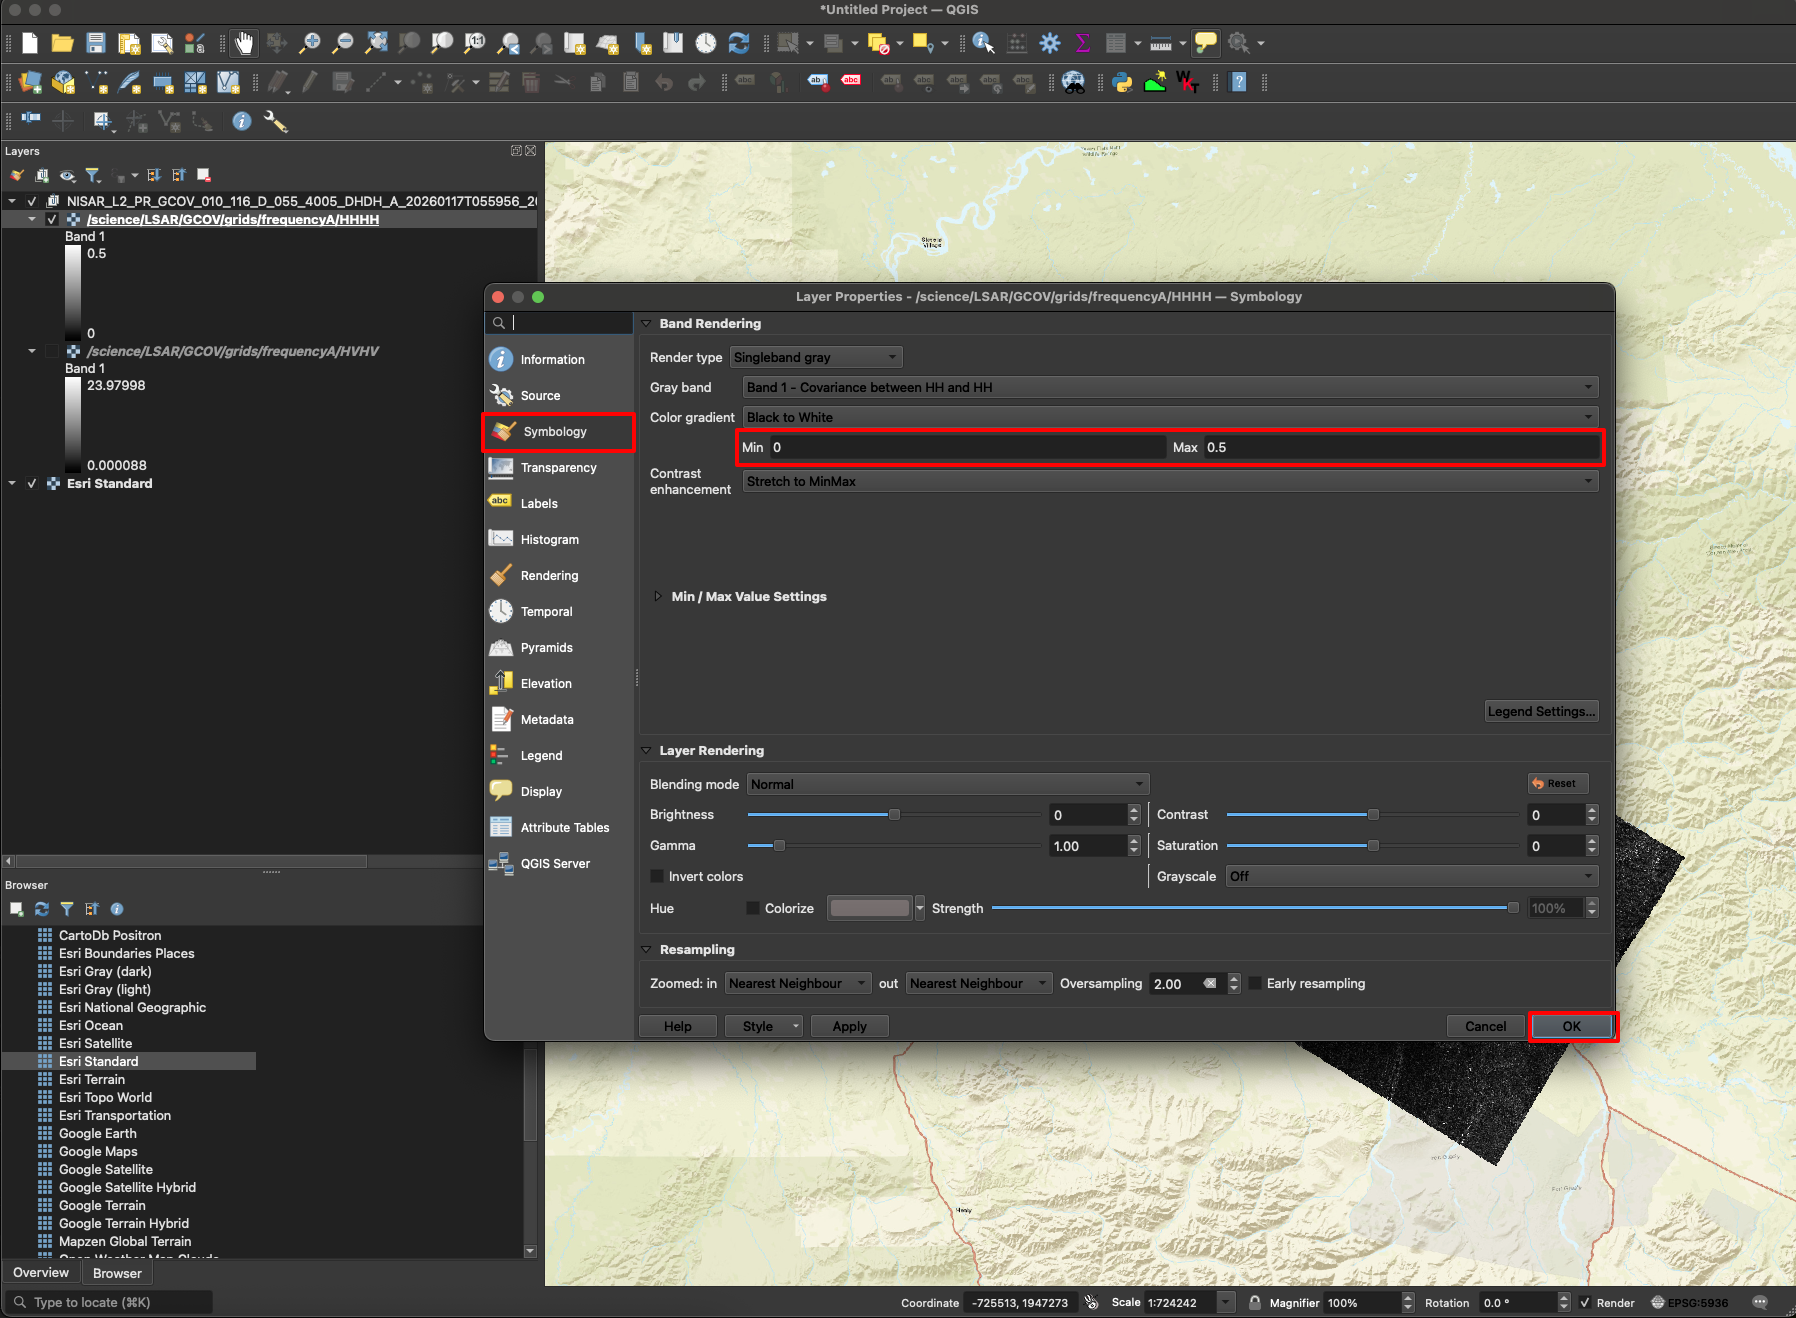
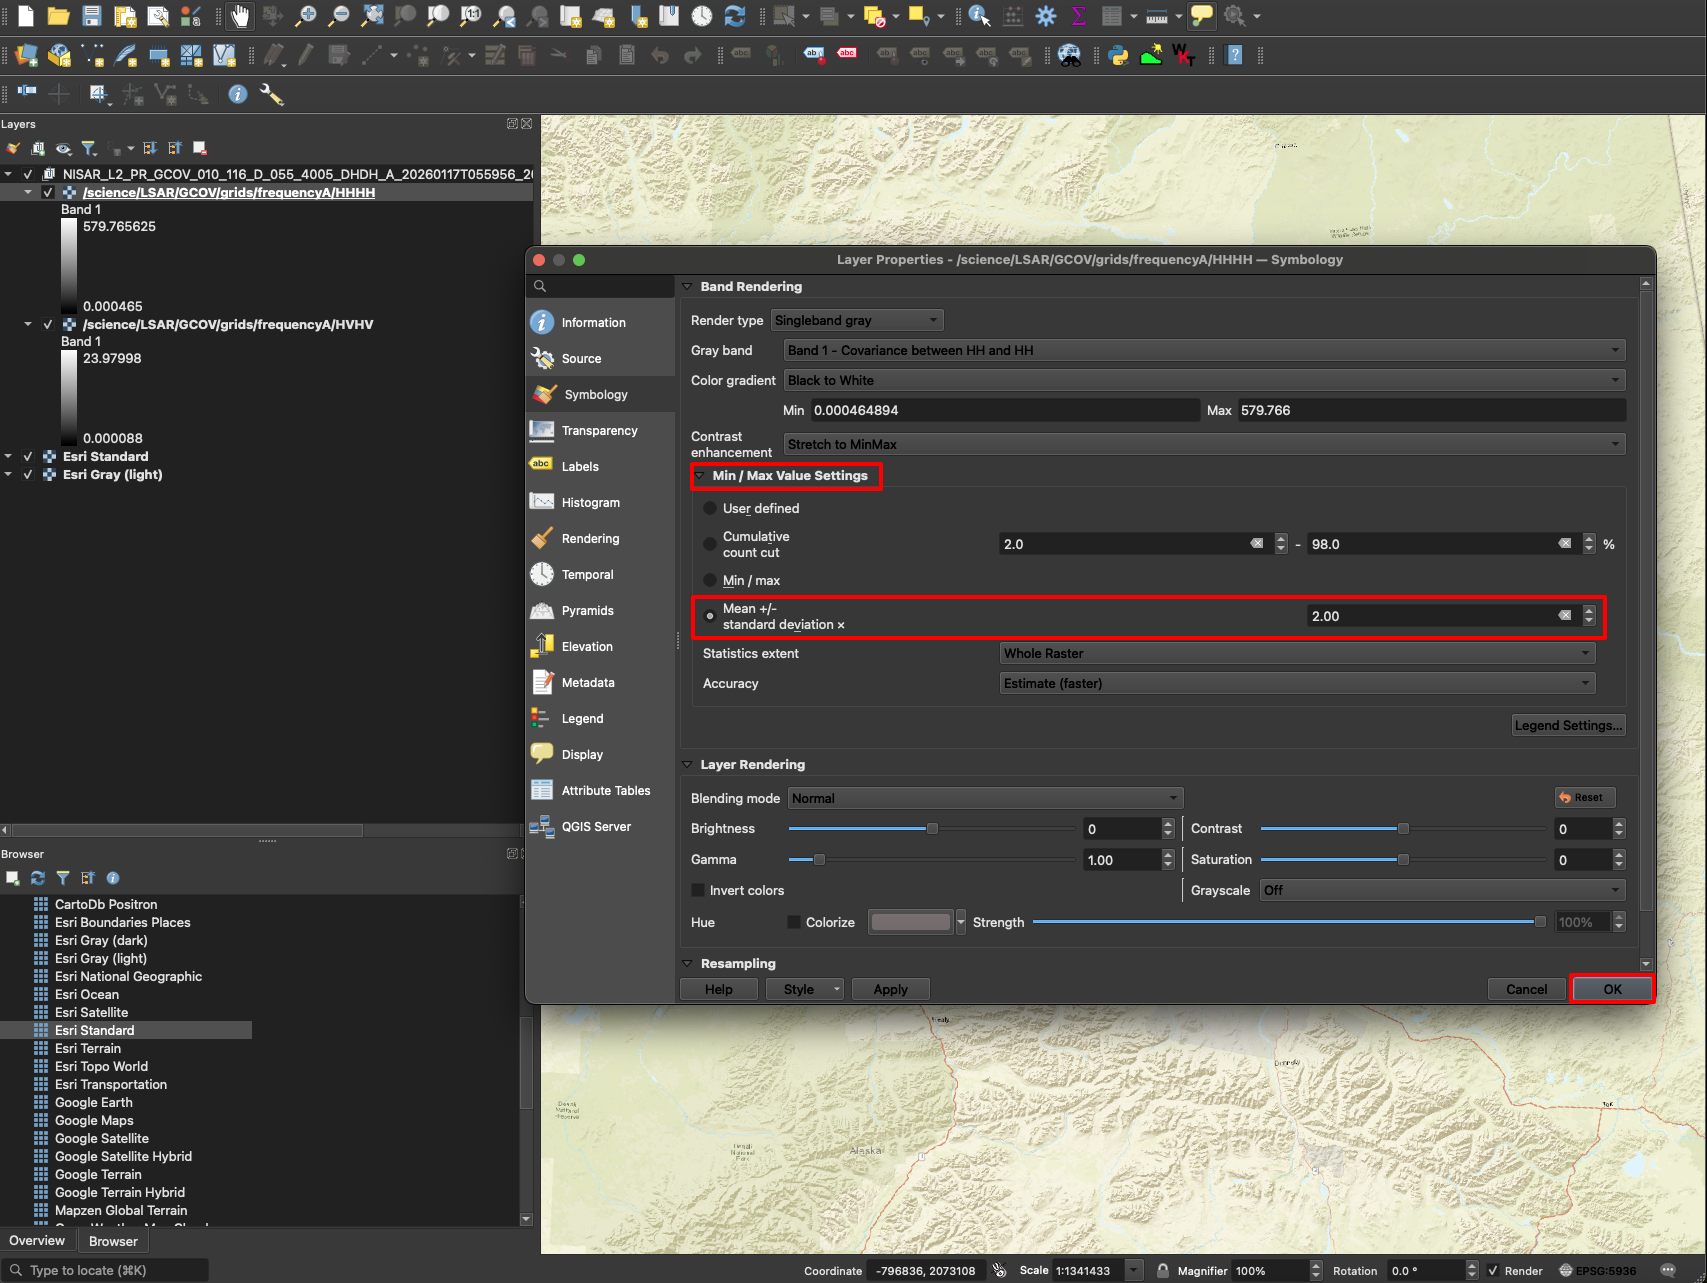
add in info about std min max

Changed region(s): [[0.0, 0.0, 1.0, 1.0], [0.5899, 0.4988, 0.652, 0.53], [0.1242, 0.7794, 0.1552, 0.8106]]

diff --git a/using-nisar/using-qgis.md b/using-nisar/using-qgis.md
@@ -3,9 +3,9 @@ short_title: QGIS
 ---
 # Using NISAR Data in QGIS
 
-NISAR Level 2-3 products are suitable for GIS analysis. Working with NISAR in [QGIS](https://qgis.org/), a free and open-source GIS. For a refresher on Level 2 and Level 3 data products, see @data-products-overview. 
+NISAR Level 2 and Level 3 products are suitable for direct use in GIS-based analysis, such as in [QGIS](https://qgis.org/), a free and open-source GIS. For a refresher on Level 2 and Level 3 NISAR data products, see @data-products-overview. 
 
-The [Work with NISAR Sample Data](https://www.earthdata.nasa.gov/learn/tutorials/work-nisar-sample-data) tutorials provide a quick overview to work with NISAR data in QGIS. 
+To explore workflows for working with specific NISAR data types in QGIS, see the [Work with NISAR Sample Data](https://www.earthdata.nasa.gov/learn/tutorials/work-nisar-sample-data) tutorials. 
 
 ## Preparing NISAR Data for QGIS
 
@@ -15,6 +15,14 @@ QGIS does not natively support `.h5` files. To add NISAR data in QGIS, rename th
 would be able to be opened in QGIS. 
 
 Alternatively, to work directly with `.h5` data, install the [QGIS NASA Earthdata plugin](https://github.com/opengeos/qgis-nasa-earthdata-plugin). 
+
+### GSLC Products
+
+QGIS does not natively handle complex numbers. The `gdal_translate` function will allos extraction of the amplitude and phase components into separate real components. Since the amplitude component contains the visual information, that will be the more useful component to view in QGIS. Run the following example to extract the amplitude from a GLSC file: 
+
+`gdal_translate -of GTiff DERIVED_SUBDATASET:AMPLITUDE:NETCDF:/path/to/nisar.nc:/science/LSAR/GSLC/grids/frequencyA/HH amplitude.tif`
+
+Now, `amplitude.tif` will be the file to load into QGIS. 
 
 (qgis-adding-nisar-data)=
 ## Adding NISAR Data
@@ -28,6 +36,7 @@ Add data to QGIS using the **Open Data Source Manger** button or shortcut. Selec
 Click on **Open Data Source Manger** and select the Raster data type to add NISAR data to QGIS. 
 ```
 After clicking the **Add** button, another window will pop up with all the groups within the NISAR data file that can be added as individual layers. All groups are selected for addition as a default, but individual groups can be selected to avoid adding too much data to your project. For more information about the HDF Files and NISAR data groups, see @hdf5.  
+
 ```{figure} ../assets/qgis-select-layers.png
 :name: qgis-select-layers
 :alt: Screenshot highlighting the list of layers that pop up after adding NISAR data in QGIS
@@ -40,14 +49,14 @@ Select the data layers to add in QGIS. All layers are selected as the default.
 ## Visualizing NISAR Data
 After loading data into QGIS, the symbology needs to be adjusted to visualize the data in a meaningful way. 
 
-For GCOV products, the colorbar needs to be adjusted to a smaller range of values in order to highlight the features in the scene. Right-click on the layer in the **Layers** Panel and select **Properties** to adjust the symbology, as shown in @qgis-adjust-colorbar. Note that co-polarized returns are generally higher than cross-polarized returns, so the colorbar minimum and maximums might need to be different for the two different polarizations. Adjusting minimum and maximum values might take a bit of trial and error to highlight interesting features for each scene. 
+For GCOV products, the colorbar needs to be adjusted to a smaller range of values in order to highlight the features in the scene. Right-click on the layer in the **Layers** Panel and select **Properties** to adjust the symbology, as shown in @qgis-adjust-colorbar. Note that co-polarized returns are generally higher than cross-polarized returns, so the colorbar minimum and maximums might need to be different for the two different polarizations. The minimum and maximum values for the colorbar can be stretched by expanding `Min/Max Value Settings`. The `Mean +/- standard deviation` option is good starting point to visualizing GCOV data. 
 
 ```{figure} ../assets/qgis-adjust-colorbar.png
 :name: qgis-adjust-colorbar
 :alt: Screenshot showing the **Symbology** for a NISAR GCOV data layer to highlight the minimum and maximum values of the colorbar
 :align: left
 
-Right-click on the data layer in the **Layers** panel and select "Properties" to open up the Layer Properties window. Select the **Symbology** tab to adjust the Color Gradient minimum and maximum to appropriate values for the data layer. 
+Right-click on the data layer in the **Layers** panel and select "Properties" to open up the Layer Properties window. Select the **Symbology** tab to customize stretch values for the gradient. 
 ```
 
 NISAR data products will have a black and white (aka "Singleband grey") colorbar in QGIS as a default, but can be changed to a number of other color ramp options using the **Layer Properties** window. Right-click on the desired layer, and select **Properties** in the pop-up list. A variety of color ramps are available by changing the **Render Type** to "Singleband pseudocolor", such as the "Rocket" color ramp, as seen in @qgis-color-ramp. 
@@ -99,7 +108,7 @@ Once a layer is ready to be exported, right-click on the layer and select **Expo
 Right-click on a layer and select the **Export** option from the pop-up list. 
 ```
 
-A list of output data types will be available when selecting **Format**. 
+A list of output data types will be available when selecting **Format**. Saving as a GeoTiff should be appropriate for most users. 
 
 ```{figure} ../assets/qgis-export-file.png
 :name: qgis-export-file
